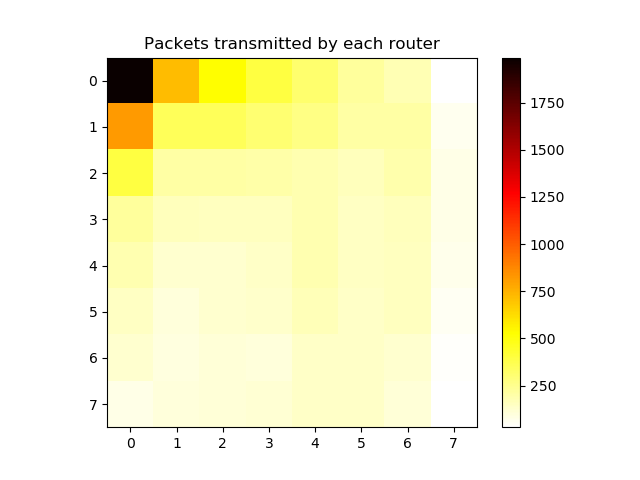
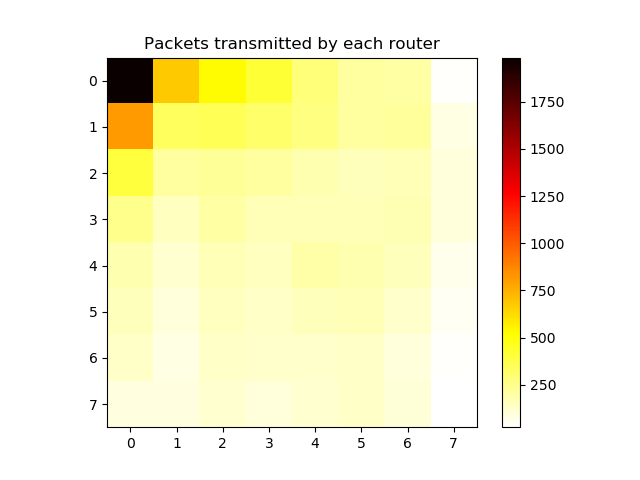
Fix speed scale.

diff --git a/gen/gen.py b/gen/gen.py
@@ -64,6 +64,7 @@ def save_plot(
     assert len(speed) == len(finished) == len(delay)
     n = len(hot)
     assert all(len(row) == n for row in hot)
+    speed = [s * N * N for s in speed] # To real packet/cycle
 
     fig, ax1 = plt.subplots()
     color = 'tab:red'
